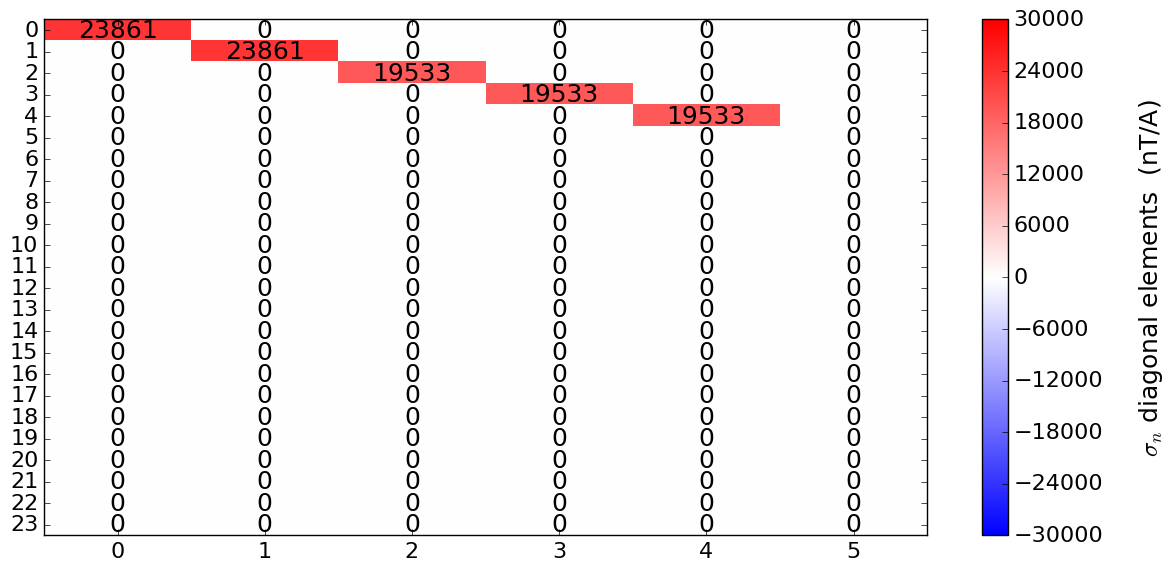
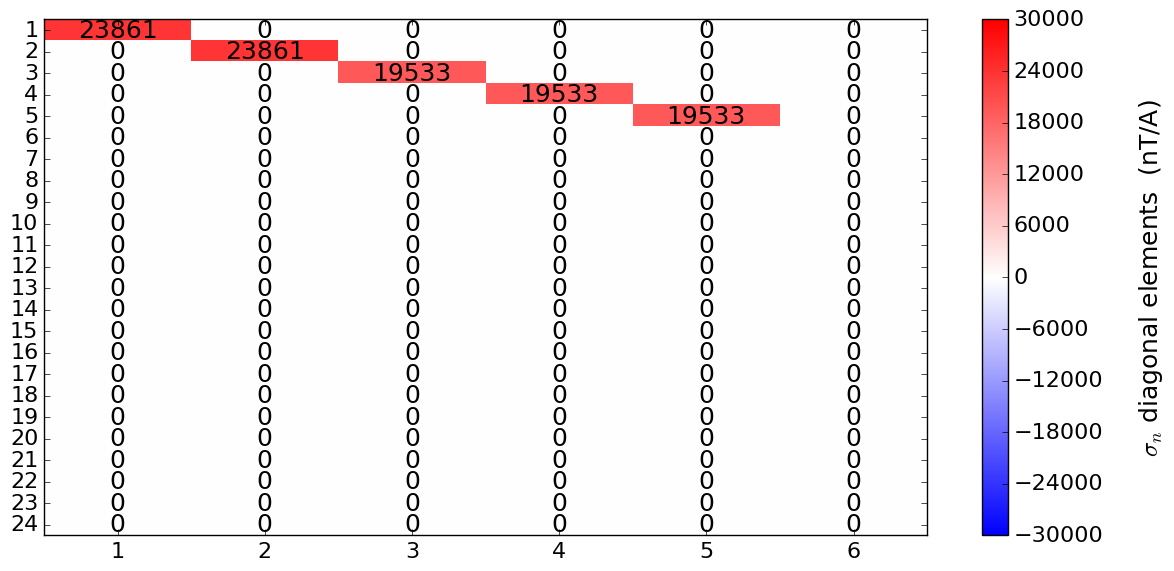
changes figs. in Sec 5.7

diff --git a/Chapters/Chapter5.tex b/Chapters/Chapter5.tex
@@ -1973,36 +1973,42 @@ In light of the previous studies, there was now strong evidence to
 suggest that the current drifting problem had more to do with the
 structure of the non-square matrix than with other possible problems
 such as instability of the current sinks or issues with the PI
-feedback loop.  In light of this, I began to focus more on
+feedback loop.  In consideration of this, I began to focus more on
 understanding the matrix, its pseudo-inverse, and the concepts of
 matrix regularization.
 
 In order to study a broader range of possible coil geometries, another
 Python code was written which could perform magnetic field
-calculations for rectangular coils wound on the  in free space.  Since it would not
+calculations for rectangular coils wound in the free space.  Since, it would not
 rely on OPERA simulations, the process of generating matrices then
 became much faster.  Studying such a case was also a reasonable step,
 since the current drifting problem had been shown experimentally not
 to depend on whether the magnetic shields were present withing the
 coil cube.
 
-The code generated coil geometries that were very highly idealized.
+The code generated coil geometries were very highly idealized.
 They were like the coil cube displayed in Fig.~\ref{fig:coil}, but
 with the currents exactly on top of one another.  Fluxgate positions
 were again generally placed in the corners of a slightly smaller cube,
 or could alternately be placed in the middles of the faces of cube,
-much like the studies presented in Table~\ref{table:flux_pos}.
+much like the studies presented in Table~\ref{table:flux-pos}.
+
+\textcolor{red}{Is Fig.~\ref{fig:matrix_patch_6c} required ????}
+
+\fig{Images/matrix_patch_6c}{width = \textwidth}{
+Color map of $M_{sc}$ elements for 24 fluxgate axes and 6 coils.\label{fig:matrix_patch_6c}}{Matrix for 6 coils.}
 
 The interesting result of the code was that it would always give
 condition number infinity when six coils were used, no matter what
 positions for the fluxgates were used nor the number of fluxgate axes
-used.  An example of one such simulation is shown in
+used. An example of one such simulation is shown in
 Fig.~\ref{fig:diag_patch_6c} where the $\bm{\Sigma}$ matrix involved
 in singular value decomposition of the matrix $\bm{M}$ is displayed
 (see Section~\ref{sec:inv} for the description of the process of
 singular value decomposition).  The matrix $\bm{\Sigma}$ is a diagonal
 matrix whose elements are the positive square roots of the singular
 values of $\bm{M^T}\bm{M}$, sorted from largest to smallest.
+
 
 \fig{Images/Diag_patch_6c}{width = \textwidth}{
 Color map of diagonal matrix $\bm{\Sigma}$ found by SVD of $\bm{M}$
@@ -2012,13 +2018,11 @@ fluxgates are placed in the eight corners of a smaller cube of
 side-length 1.20~m.\label{fig:diag_patch_6c}}{Diagonal Matrix for 6
 coils.}
 
-The condition number is the ratio of the largest $\Sigma_{1,1}$
-component of the $\Sigma_{n,n}$ where $n=6$ is limited by the number
-of coils.  (Note that in Fig.~\ref{fig:diag_patch_6c} counting goes
-from zero to five rather than one to six.)  The key problem with the
-matrix $\Sigma$ was that the $\Sigma_{n,n}$ matrix element was always
-zero.  Changing the geometry (coils or fluxgates) would alter the
-other singular values, but would never make the smallest singular
+The condition number is the ratio of the largest $\Sigma_{11}$
+component of the $\Sigma_{nn}$ where $n=6$ is limited by the number
+of coils. The key problem with the matrix $\bm{\Sigma}$ was that the $\Sigma_{nn}$ 
+matrix element was always zero.  Changing the geometry (coils or fluxgates) would 
+alter the other singular values, but would never make the smallest singular
 value larger than zero.
 
 
@@ -2035,7 +2039,11 @@ element to be zero by exploiting right singular vectors $\bm{V^T}$.
 The singular values may be analogized to eigenvalues seen in the case
 of square matrices.  The singular vectors...
 
-\fig{Images/Right_patch_6c}{width = \textwidth}{Color map of orthogonal matrix $\bm{V^T}$ found by SVD of $\bm{M}$ for 18 sensors and 6 coils. $\bm{V^T}$ is the orthonormal eigenvectors of $\bm{M^T}\bm{M}$. \label{fig:right_patch_6c}}{Orthogonal matrix $\bm{V^T}$ for 6 coils.}
+\textcolor{red}{The higher frequency information is typically represented by the singular vectors corresponding to the smaller singular values. That is, with increase of n values the left and right singular vectors tend to have more sign changes. The consequence is that the SVD provides us with basis right singular vectors for an expansion where each basis vector represents a certain “frequency,” approximated by the number of times the entries in the vector change signs.}
+
+The right singular vectors are the orthonormal eigenvectors of $\bm{M^T}\bm{M}$.
+
+\fig{Images/Right_patch_6c}{width = \textwidth}{Color map of orthogonal matrix $\bm{V^T}$ found by SVD of $\bm{M}$ for 24 fluxgate axes and 6 coils. \label{fig:right_patch_6c}}{Orthogonal matrix $\bm{V^T}$ for 6 coils.}
 
 Fig.~\ref{fig:right_patch_6c} show the right singlur vectors $\bm{V^T}$.
 
@@ -2070,15 +2078,16 @@ It can be as explained by Fig.~\ref{fig:cDir} where one of the coil current mode
 % For the prototype, two different configuration of compensation coils have been exploited. In the first case, all the six coils have been used in the six faces surrounding the compensation area and for the later one, two coils have been wired together so that they can act as one making total five instead of six coils. The main reason for using the second configuration is the condition number of $\bm{M}$. It was found to be $\sim$4.7 for the second one as compared to $\sim$51 in the first.
 
 
+\textcolor{red}{Is Fig.~\ref{fig:matrix_patch_5c} required ????}
 
-
-
+\fig{Images/matrix_patch_5c}{width = \textwidth}{
+Color map of $M_{sc}$ elements for 24 fluxgate axes and 5 coils.\label{fig:matrix_patch_5c}}{Matrix for 5 coils.}
 
 \fig{Images/Diag_patch_5c}{width = \textwidth}{
-Color map of diagonal matrix $\bm{\Sigma}$ found by SVD of $\bm{M}$ for 18 sensors and 5 coils in nT/A. $\bm{\Sigma}$ is positive square roots of the non-negative eigenvalues of $\bm{M^T}\bm{M}$ in sensors$\times$coils dimension. \label{fig:diag_patch_5c}}{Diagonal Matrix for 5 coils.}
+Color map of diagonal matrix $\bm{\Sigma}$ found by SVD of $\bm{M}$ for 24 fluxgate axes and 5 coils. \label{fig:diag_patch_5c}}{Diagonal Matrix for 5 coils.}
 
 
-\fig{Images/Right_patch_5c}{width = \textwidth}{Color map of orthogonal matrix $\bm{V^T}$ found by SVD of $\bm{M}$ for 18 sensors and 5 coils. $\bm{V^T}$ is the orthonormal eigenvectors of $\bm{M^T}\bm{M}$. \label{fig:right_patch_5c}}{Orthogonal matrix $\bm{V^T}$ for 5 coils.}
+\fig{Images/Right_patch_5c}{width = \textwidth}{Color map of orthogonal matrix $\bm{V^T}$ found by SVD of $\bm{M}$ 24 fluxgate axes and 5 coils. \label{fig:right_patch_5c}}{Orthogonal matrix $\bm{V^T}$ for 5 coils.}
 
 
 

diff --git a/Chapters/Chapter4.tex b/Chapters/Chapter4.tex
@@ -230,33 +230,50 @@ We have a non-square matrix $\bm{M}$ with dimension $6*12$ (coils~$\times$~senso
 % %\FloatBarrier
 % The author in Ref.~\cite{bea} in Section \textcolor{blue}{7.2.3} of her PhD thesis claimed that more sensors than coils with some optimization give better compensation forming a non-square matrix which needs to be inverted for calculating the error using Eq.~\ref{eq:del_I}. 
 
-The Moore--Penrose pseudoinverse can be used for the inversion process. A tutorial review of the pseudoinverse can be found in Ref.~\cite{pseudo}. The pseudoinverse of a matrix can be computed using singular value decompostion (SVD). SVD is a factorization or diagonalization of a matrix. The matrix can be real or complex square or rectangular matrix. The SVD~\cite{svd2,svd3} of a real rectangular matrix $\bm{M}$ with dimension $s \times c$ and $s>c$ is 
+The Moore--Penrose pseudoinverse can be used for the inversion process. A tutorial review of the pseudoinverse can be found in Ref.~\cite{pseudo}. The pseudoinverse of a matrix can be computed using singular value decompostion (SVD). SVD is a factorization or diagonalization of a matrix. The matrix can be real or complex square or rectangular matrix. The SVD~\cite{svd4,svd2,svd3} of a real rectangular matrix $\bm{M}$ with dimension $m \times n$ and $m>n$ is 
+% \begin{equation}\label{eq:m}
+%     \begin{split}
+%         \bm{M} = \bm{U} \bm{\Sigma} \bm{V^T}
+%               &=\begin{bmatrix} 
+%                     \Sigma_{11} &  &  & 0 \\
+%                     & . &  &  \\
+%                     &   & . &  \\
+%                     0 &  &  & \Sigma_{nn} \\
+%                     \end{bmatrix}
+%                 \begin{bmatrix} 
+%                     \Sigma_{11} &  &  & 0 \\
+%                      & . &  &  \\
+%                      &   & . &  \\
+%                      0 &  &  & \Sigma_{nn} \\
+%                 \end{bmatrix}
+%     \end{split}
+% \end{equation}
 \begin{equation}\label{eq:m}
-        \bm{M} = \bm{U} \bm{\Sigma} \bm{V^T}
+    \bm{M} = \bm{U} \bm{\Sigma} \bm{V^T}
 \end{equation}
 % where, $\bm{U}\:\epsilon\:\mathbb{R}^{m \times m}$, $\bm{V^*}\:\epsilon\:\mathbb{R}^{n \times n}$ 
-where, $\bm{U}$ and $\bm{V}$ are the orthogonal matrices with dimensions $s \times s$ and $c \times c$ respectively and $\bm{V^T}$ is the transpose of $\bm{V}$. $\bm{\Sigma}$ is a real non-negative diagonal matrix with same dimension as  $\bm{M}$ and can be written as
+where, $\bm{U}$ and $\bm{V}$ are the orthogonal unitary matrices with dimensions $m \times m$ and $n \times n$ respectively and $\bm{V^T}$ is the transpose of $\bm{V}$. $\bm{U}$ and $\bm{V^T}$ are called left and right singular vectors and are the orthonormal eigenvectors of $\bm{M}\bm{M^T}$ and $\bm{M^T}\bm{M}$ respectively. $\bm{\Sigma}$ is a real non-negative diagonal matrix with same dimension as  $\bm{M}$ and can be written as
 
 \begin{equation*}
-\bm{\Sigma} = \begin{pmatrix} 
+\bm{\Sigma} = \begin{bmatrix} 
 \Sigma_{11} &  &  & 0 \\
   & . &  &  \\
   &   & . &  \\
 
 0 &  &  & \Sigma_{nn} \\
- \end{pmatrix}
+ \end{bmatrix}
 \end{equation*}
 where, $\Sigma_{11},..,\Sigma_{nn}=\sigma_{n}$ are diagonal values of $\bm{\Sigma}$ with $\Sigma_{11}\gg... \Sigma_{nn}\geq0$. The positive square roots of the non-negative eigenvalues of $\bm{M^T}\bm{M}$ yield $\sigma_{n}$, and are called singular values of $\bm{M}$. 
 
 The point of SVD is that this is easy to invert because the transpose of an orthogonal matrix is equal to its invert. That is   $\bm{U^T}=\bm{U^{-1}}$ and $\bm{V^T}=\bm{V^{-1}}$ and
 \begin{equation}\label{eq:sigma_inv}
-\frac{1}{\bm{\Sigma}} = \begin{pmatrix} 
+\frac{1}{\bm{\Sigma}} = \begin{bmatrix} 
 \frac{1}{\Sigma_{11}} &  &  & 0 \\
   & . &  &  \\
   &   & . &  \\
 
 0 &  &  & \frac{1}{\Sigma_{nn}} \\
- \end{pmatrix}
+ \end{bmatrix}
 \end{equation}
 
 The pseudoinverse of $\bm{M}$ will be then the inverse of $\bm{U}$, $\bm{\Sigma}$ and $\bm{V^T}$ and can be written as

diff --git a/ShomiThesis.tex b/ShomiThesis.tex
@@ -94,11 +94,11 @@
 
 % Chapters: list all the chapter latex files you want included here, in order
 
-\include{Chapters/Chapter1}
-\thispagestyle{plain}
-\include{Chapters/Chapter2}
-\include{Chapters/Chapter3}
-\include{Chapters/Chapter4}
+ \include{Chapters/Chapter1}
+ \thispagestyle{plain}
+ \include{Chapters/Chapter2}
+ \include{Chapters/Chapter3}
+ \include{Chapters/Chapter4}
 \include{Chapters/Chapter5}
 \include{Chapters/Chapter6}
 
